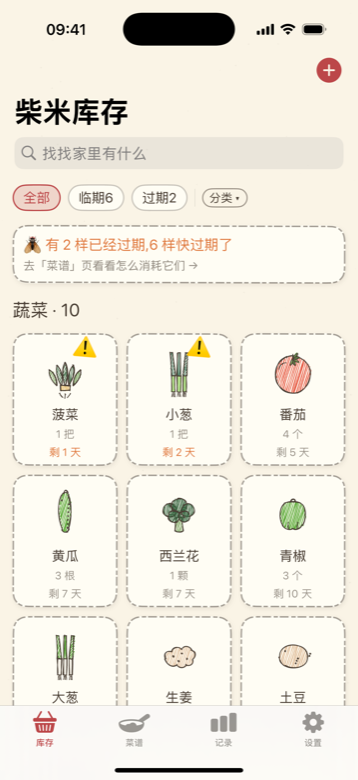
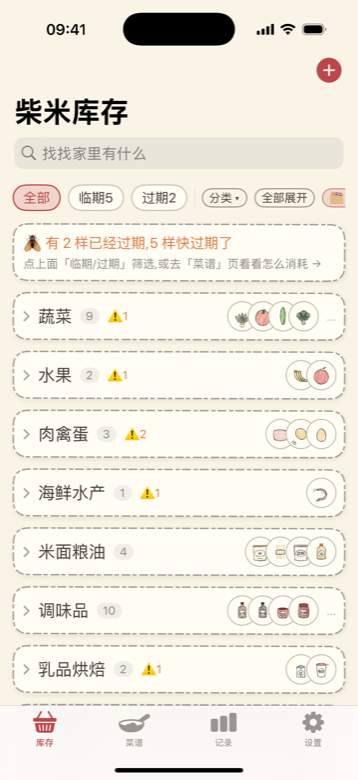
feat(pantry): 分组折叠 + 按存放方式分组
- 主界面每个分类折叠为一行:箭头/名称/数量/临期⚠角标/前4样小图预览,点击展开收起,状态持久化
- 筛选条新增「全部展开/收起」和「按种类⇄按存放(冷藏/常温/冷冻)」快捷切换;设置页同步新增选项
- 搜索或筛选临期/过期时自动全部展开直达结果

Changed region(s): [[0.0307, 0.2154, 0.9832, 0.9231]]

diff --git a/Chaimi/Views/Pantry/PantryListView.swift b/Chaimi/Views/Pantry/PantryListView.swift
@@ -5,9 +5,14 @@ import SwiftData
 
 struct PantryListView: View {
     enum Filter: String, CaseIterable { case all = "全部", expiring = "临期", expired = "已过期" }
+    enum GroupMode: String { case category, storage }
 
     @Query(sort: \PantryItem.expiryDate) private var items: [PantryItem]
     @Environment(\.modelContext) private var context
+
+    @AppStorage("pantryGroupMode") private var groupModeRaw = GroupMode.category.rawValue
+    /// 展开的分组 id,逗号分隔持久化
+    @AppStorage("pantryExpandedGroups") private var expandedRaw = ""
 
     @State private var filter: Filter = .all
     @State private var categoryFilter: String? = nil
@@ -15,6 +20,8 @@ struct PantryListView: View {
     @State private var showCatalogPicker = false
     @State private var scanMode: ScanSheetMode? = nil
     @State private var editingItem: PantryItem? = nil
+
+    private var groupMode: GroupMode { GroupMode(rawValue: groupModeRaw) ?? .category }
 
     private var filtered: [PantryItem] {
         items.filter { item in
@@ -29,23 +36,65 @@ struct PantryListView: View {
         }
     }
 
-    private var grouped: [(CatalogCategory, [PantryItem])] {
-        let dict = Dictionary(grouping: filtered, by: \.categoryId)
-        return Catalog.shared.categories.compactMap { cat in
-            guard let rows = dict[cat.id], !rows.isEmpty else { return nil }
-            return (cat, rows)
+    // MARK: 分组
+
+    private struct GroupSection: Identifiable {
+        let id: String
+        let title: String
+        let emoji: String?
+        let items: [PantryItem]
+        var urgentCount: Int { items.filter { if case .fresh = $0.freshness { return false }; return true }.count }
+    }
+
+    private var sections: [GroupSection] {
+        switch groupMode {
+        case .storage:
+            return StorageKind.allCases.compactMap { kind in
+                let rows = filtered.filter { $0.storage == kind }
+                guard !rows.isEmpty else { return nil }
+                return GroupSection(id: "st_\(kind.rawValue)", title: kind.label, emoji: kind.emoji, items: rows)
+            }
+        case .category:
+            let dict = Dictionary(grouping: filtered, by: \.categoryId)
+            var out = Catalog.shared.categories.compactMap { cat -> GroupSection? in
+                guard let rows = dict[cat.id], !rows.isEmpty else { return nil }
+                return GroupSection(id: "cat_\(cat.id)", title: cat.name, emoji: nil, items: rows)
+            }
+            if let other = dict["other"], !other.isEmpty {
+                out.append(GroupSection(id: "cat_other", title: "其他", emoji: nil, items: other))
+            }
+            return out
         }
+    }
+
+    /// 搜索或筛选时强制全部展开,方便直接看到结果
+    private var forceExpanded: Bool { !searchText.isEmpty || filter != .all || categoryFilter != nil }
+
+    private var expandedIds: Set<String> {
+        Set(expandedRaw.split(separator: ",").map(String.init))
+    }
+    private func isExpanded(_ id: String) -> Bool { forceExpanded || expandedIds.contains(id) }
+    private func toggle(_ id: String) {
+        var s = expandedIds
+        if s.contains(id) { s.remove(id) } else { s.insert(id) }
+        expandedRaw = s.sorted().joined(separator: ",")
+    }
+    private var allExpanded: Bool { sections.allSatisfy { expandedIds.contains($0.id) } }
+    private func toggleAll() {
+        expandedRaw = allExpanded ? "" : sections.map(\.id).sorted().joined(separator: ",")
     }
 
     private var expiringCount: Int { items.filter { if case .expiring = $0.freshness { return true }; return false }.count }
     private var expiredCount: Int { items.filter { if case .expired = $0.freshness { return true }; return false }.count }
+
+    // MARK: 视图
 
     var body: some View {
         NavigationStack {
             ZStack {
                 PaperBackground()
                 ScrollView {
-                    VStack(alignment: .leading, spacing: 14) {
+                    VStack(alignment: .leading, spacing: 12) {
                         filterBar
                         if expiringCount + expiredCount > 0 && filter == .all {
                             alertBanner
@@ -53,16 +102,17 @@ struct PantryListView: View {
                         if filtered.isEmpty {
                             emptyState
                         }
-                        ForEach(grouped, id: \.0.id) { category, rows in
-                            Text("\(category.name) · \(rows.count)")
-                                .font(.hand(20))
-                                .foregroundStyle(Color.ink)
-                                .padding(.top, 4)
-                            LazyVGrid(columns: [GridItem(.adaptive(minimum: 104), spacing: 10)], spacing: 10) {
-                                ForEach(rows) { item in
-                                    PantryCard(item: item)
-                                        .onTapGesture { editingItem = item }
+                        ForEach(sections) { sec in
+                            sectionHeader(sec)
+                            if isExpanded(sec.id) {
+                                LazyVGrid(columns: [GridItem(.adaptive(minimum: 104), spacing: 10)], spacing: 10) {
+                                    ForEach(sec.items) { item in
+                                        PantryCard(item: item)
+                                            .onTapGesture { editingItem = item }
+                                    }
                                 }
+                                .padding(.bottom, 4)
+                                .transition(.opacity.combined(with: .scale(scale: 0.97, anchor: .top)))
                             }
                         }
                     }
@@ -92,6 +142,61 @@ struct PantryListView: View {
         }
     }
 
+    // MARK: 分组标题(点击折叠/展开)
+
+    private func sectionHeader(_ sec: GroupSection) -> some View {
+        Button {
+            withAnimation(.snappy(duration: 0.28)) { toggle(sec.id) }
+        } label: {
+            HStack(spacing: 9) {
+                Image(systemName: "chevron.right")
+                    .font(.system(size: 13, weight: .semibold))
+                    .rotationEffect(.degrees(isExpanded(sec.id) ? 90 : 0))
+                    .foregroundStyle(Color.ink.opacity(0.5))
+                if let emoji = sec.emoji { Text(emoji).font(.system(size: 17)) }
+                Text(sec.title).font(.hand(19)).foregroundStyle(Color.ink)
+                Text("\(sec.items.count)")
+                    .font(.hand(13))
+                    .padding(.horizontal, 7).padding(.vertical, 1)
+                    .background(Capsule().fill(Color.ink.opacity(0.08)))
+                    .foregroundStyle(Color.ink.opacity(0.6))
+                if sec.urgentCount > 0 {
+                    Text("⚠\(sec.urgentCount)")
+                        .font(.hand(13))
+                        .foregroundStyle(Color.warnOrange)
+                }
+                Spacer(minLength: 6)
+                if !isExpanded(sec.id) {
+                    HStack(spacing: -11) {
+                        ForEach(Array(sec.items.prefix(4)), id: \.persistentModelID) { item in
+                            miniIcon(item)
+                        }
+                    }
+                    if sec.items.count > 4 {
+                        Text("…").font(.hand(14)).foregroundStyle(Color.ink.opacity(0.45))
+                    }
+                }
+            }
+        }
+        .buttonStyle(.plain)
+        .disabled(forceExpanded)
+        .doodleCard(padding: 10)
+    }
+
+    private func miniIcon(_ item: PantryItem) -> some View {
+        ZStack {
+            Circle()
+                .fill(Color.paperCard)
+                .overlay(Circle().strokeBorder(Color.ink.opacity(0.35), lineWidth: 1.1))
+            if let name = item.imageName, UIImage(named: name) != nil {
+                Image(name).resizable().scaledToFit().padding(3)
+            } else {
+                Text("🥡").font(.system(size: 14))
+            }
+        }
+        .frame(width: 34, height: 34)
+    }
+
     private var filterBar: some View {
         ScrollView(.horizontal, showsIndicators: false) {
             HStack(spacing: 8) {
@@ -105,6 +210,22 @@ struct PantryListView: View {
                 } label: {
                     TagChip(text: categoryFilter.flatMap { Catalog.shared.category(id: $0)?.name } ?? "分类 ▾", color: .ink, filled: categoryFilter != nil)
                 }
+                if !forceExpanded && !sections.isEmpty {
+                    Button {
+                        withAnimation(.snappy(duration: 0.3)) { toggleAll() }
+                    } label: {
+                        TagChip(text: allExpanded ? "全部收起" : "全部展开", color: .ink)
+                    }
+                    .buttonStyle(.plain)
+                }
+                Button {
+                    withAnimation(.snappy(duration: 0.3)) {
+                        groupModeRaw = groupMode == .category ? GroupMode.storage.rawValue : GroupMode.category.rawValue
+                    }
+                } label: {
+                    TagChip(text: groupMode == .category ? "🗂 按种类" : "🧊 按存放", color: .accentColor, filled: true)
+                }
+                .buttonStyle(.plain)
             }
             .padding(.vertical, 2)
         }
@@ -115,7 +236,7 @@ struct PantryListView: View {
             Text(expiredCount > 0 ? "🪰 有 \(expiredCount) 样已经过期,\(expiringCount) 样快过期了" : "⚠ 有 \(expiringCount) 样快过期了,优先吃掉")
                 .font(.hand(16))
                 .foregroundStyle(Color.warnOrange)
-            Text("去「菜谱」页看看怎么消耗它们 →")
+            Text("点上面「临期/过期」筛选,或去「菜谱」页看看怎么消耗 →")
                 .font(.hand(13))
                 .foregroundStyle(Color.ink.opacity(0.6))
         }

diff --git a/Chaimi/Views/SettingsView.swift b/Chaimi/Views/SettingsView.swift
@@ -9,6 +9,7 @@ struct SettingsView: View {
     @AppStorage("dailyCalorieLimit") private var dailyLimit: Double = 0
     @AppStorage("bodyProfile") private var profileJSON: String = ""
     @AppStorage("claudeModel") private var model: String = "claude-opus-5-5"
+    @AppStorage("pantryGroupMode") private var pantryGroupMode = "category"
 
     @State private var profile = BodyProfile()
     @State private var keyInput = ""
@@ -26,6 +27,7 @@ struct SettingsView: View {
             ZStack {
                 PaperBackground()
                 Form {
+                    pantrySection
                     goalSection
                     bodySection
                     aiSection
@@ -38,6 +40,18 @@ struct SettingsView: View {
             .onAppear { profile = BodyProfile.load(from: profileJSON) }
             .onChange(of: profile) { _, newValue in profileJSON = newValue.json }
         }
+    }
+
+    // MARK: 库存显示
+
+    private var pantrySection: some View {
+        Section {
+            Picker(selection: $pantryGroupMode) {
+                Text("按种类(蔬菜/肉禽蛋/调味品…)").tag("category")
+                Text("按存放(冷藏/常温/冷冻)").tag("storage")
+            } label: { Text("库存分组").font(.hand(16)) }
+        } header: { Text("库存显示").font(.hand(13)) }
+        footer: { Text("主界面的分组可以点标题折叠/展开,折叠状态会记住。").font(.hand(11)) }
     }
 
     // MARK: 卡路里目标
